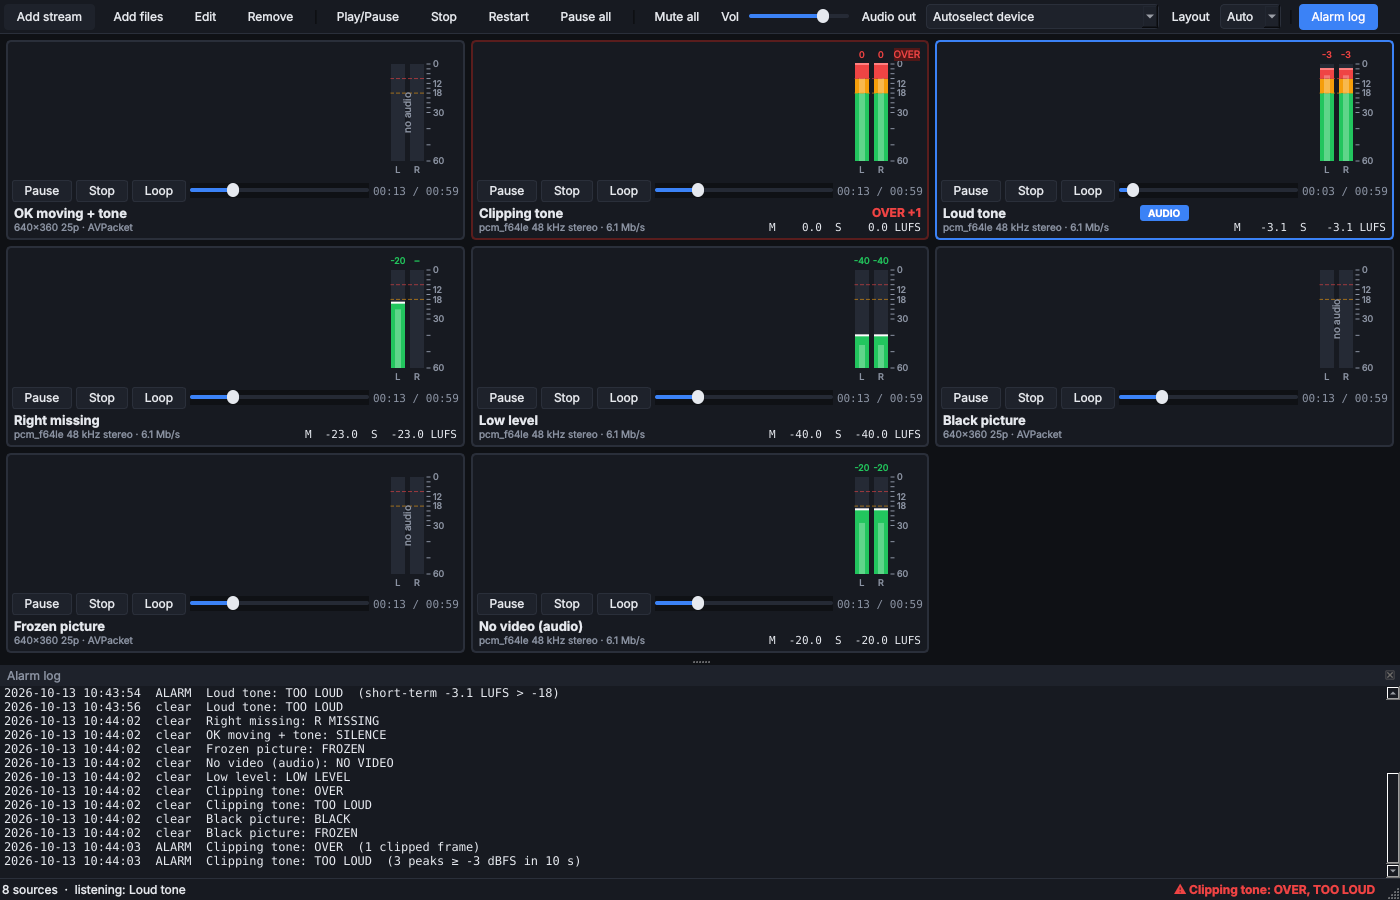
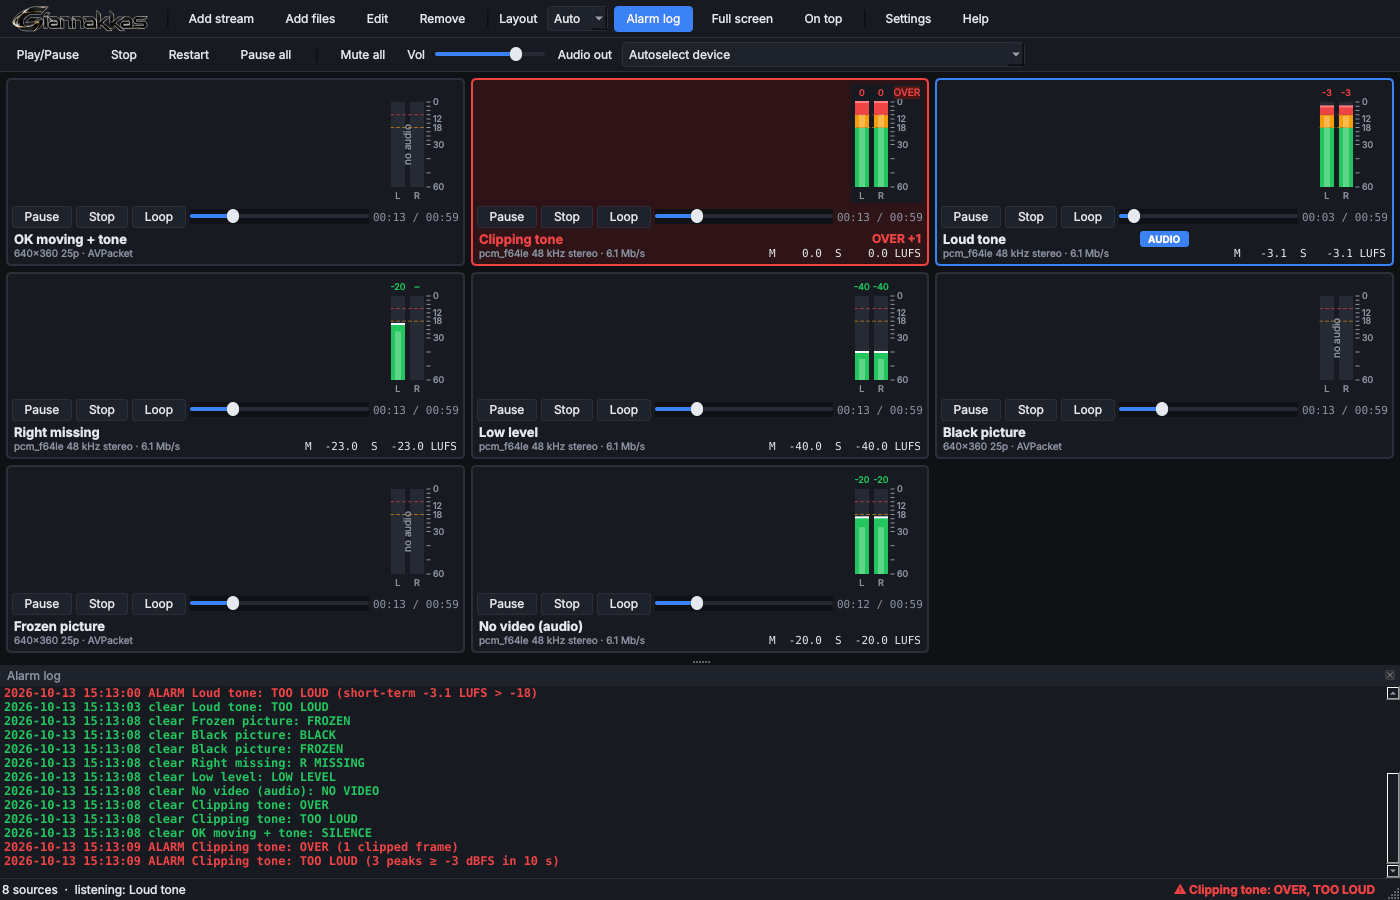
Monitor 1.1.4: alarms are red everywhere
A tile with an active alarm gets a red-tinted background and a red name
in addition to the blinking red border, the alarm text on the video is
drawn in red (white for PAUSED, BUFFERING and the like), and the alarm
log colours ALARM lines red and clear lines green.

Claude-Session: https://claude.ai/code/session_017AEtJQAPEunZBioEWQbm4n

Changed region(s): [[0.0, 0.0, 1.0, 0.5911], [0.0, 0.7467, 0.3993, 0.9644]]

diff --git a/monitor/barpi_monitor/tile.py b/monitor/barpi_monitor/tile.py
@@ -494,9 +494,10 @@ class SourceTile(QFrame):
             self.alarm_changed.emit(self)
         top = self.alarm
         osd = top if top and top != "NO SIGNAL" else OSD_TEXT.get(self._state, "")
-        if osd != self._osd:
-            self._osd = osd
-            self.player.set_osd_text(osd)
+        osd_color = theme.RED if top else "#FFFFFF"
+        if (osd, osd_color) != self._osd:
+            self._osd = (osd, osd_color)
+            self.player.set_osd_text(osd, osd_color)
 
     def _on_blink(self) -> None:
         self._blink_on = not self._blink_on
@@ -544,8 +545,12 @@ class SourceTile(QFrame):
         self.status_label.setToolTip("\n".join(f"{n}: {d}" for n, d in self._alarms.items()) or self._detail)
 
     def _update_style(self) -> None:
+        background = theme.PANEL
+        name_color = theme.TEXT
         if self._alarms:
-            border = theme.RED if self._blink_on else "#5a1d1d"
+            border = theme.RED if self._blink_on else "#7a2323"
+            background = theme.ALARM_BG
+            name_color = theme.RED
         elif self._audible:
             border = theme.ACCENT
         elif self._selected:
@@ -553,7 +558,8 @@ class SourceTile(QFrame):
         else:
             border = theme.BORDER
         self.setStyleSheet(
-            f"QFrame#tile {{ background: {theme.PANEL}; border: 2px solid {border}; border-radius: 5px; }}")
+            f"QFrame#tile {{ background: {background}; border: 2px solid {border}; border-radius: 5px; }}")
+        self.name_label.setStyleSheet(f"color: {name_color}; border: none; background: transparent;")
 
     def mousePressEvent(self, event) -> None:  # noqa: N802
         if event.button() == Qt.LeftButton:

diff --git a/monitor/barpi_monitor/window.py b/monitor/barpi_monitor/window.py
@@ -2,6 +2,7 @@
 from __future__ import annotations
 
 import csv
+import html
 import logging
 import math
 import time
@@ -436,13 +437,19 @@ class MainWindow(QMainWindow):
 
     # ------------------------------------------------------------------ alarm log
 
-    def _log_line(self, text: str) -> None:
+    def _log_line(self, text: str, color: str | None = None) -> None:
         stamp = time.strftime("%Y-%m-%d %H:%M:%S")
-        self.log_view.appendPlainText(f"{stamp}  {text}")
+        body = html.escape(f"{stamp}  {text}")
+        if color:
+            body = f'<span style="color: {color}; font-weight: bold;">{body}</span>'
+        else:
+            body = f'<span style="color: {theme.MUTED};">{body}</span>'
+        self.log_view.appendHtml(body)
 
     def _log_alarm(self, tile: SourceTile, name: str, detail: str, started: bool) -> None:
         source = tile.source.display_name()
-        self._log_line(f"{'ALARM ' if started else 'clear '} {source}: {name}" + (f"  ({detail})" if detail else ""))
+        line = f"{'ALARM ' if started else 'clear '} {source}: {name}" + (f"  ({detail})" if detail else "")
+        self._log_line(line, theme.RED if started else theme.GREEN)
         if self.config.settings.alarm_log:
             path = self.config_path.parent / "alarms.csv"
             try:

diff --git a/monitor/barpi_monitor/player.py b/monitor/barpi_monitor/player.py
@@ -293,7 +293,9 @@ class MonitorPlayer(QObject):
         """The output devices, as last read by the poll thread (see the ``devices`` signal)."""
         return list(self._devices)
 
-    def set_osd_text(self, text: str) -> None:
+    def set_osd_text(self, text: str, color: str = "#FFFFFF") -> None:
+        """Big centred text on the video (empty to clear); alarms pass red."""
+        self._set_async("osd-color", color)
         self._set_async("osd-msg1", text or "")
 
     def apply_settings(self, settings: Settings) -> None:

diff --git a/monitor/barpi_monitor/__init__.py b/monitor/barpi_monitor/__init__.py
@@ -1,5 +1,5 @@
 """Barpi Monitor: a multi-source video monitor with broadcast-style audio level meters."""
 
-__version__ = "1.1.3"
+__version__ = "1.1.4"
 APP_NAME = "Monitoring Application"
 ORG_NAME = "Barpi"

diff --git a/monitor/barpi_monitor/theme.py b/monitor/barpi_monitor/theme.py
@@ -17,6 +17,7 @@ ACCENT = "#3b82f6"      # audible / selected tile
 GREEN = "#22c55e"
 AMBER = "#f59e0b"
 RED = "#ef4444"
+ALARM_BG = "#2e1416"   # tile background while an alarm is active
 TRACK = "#252a35"
 
 
